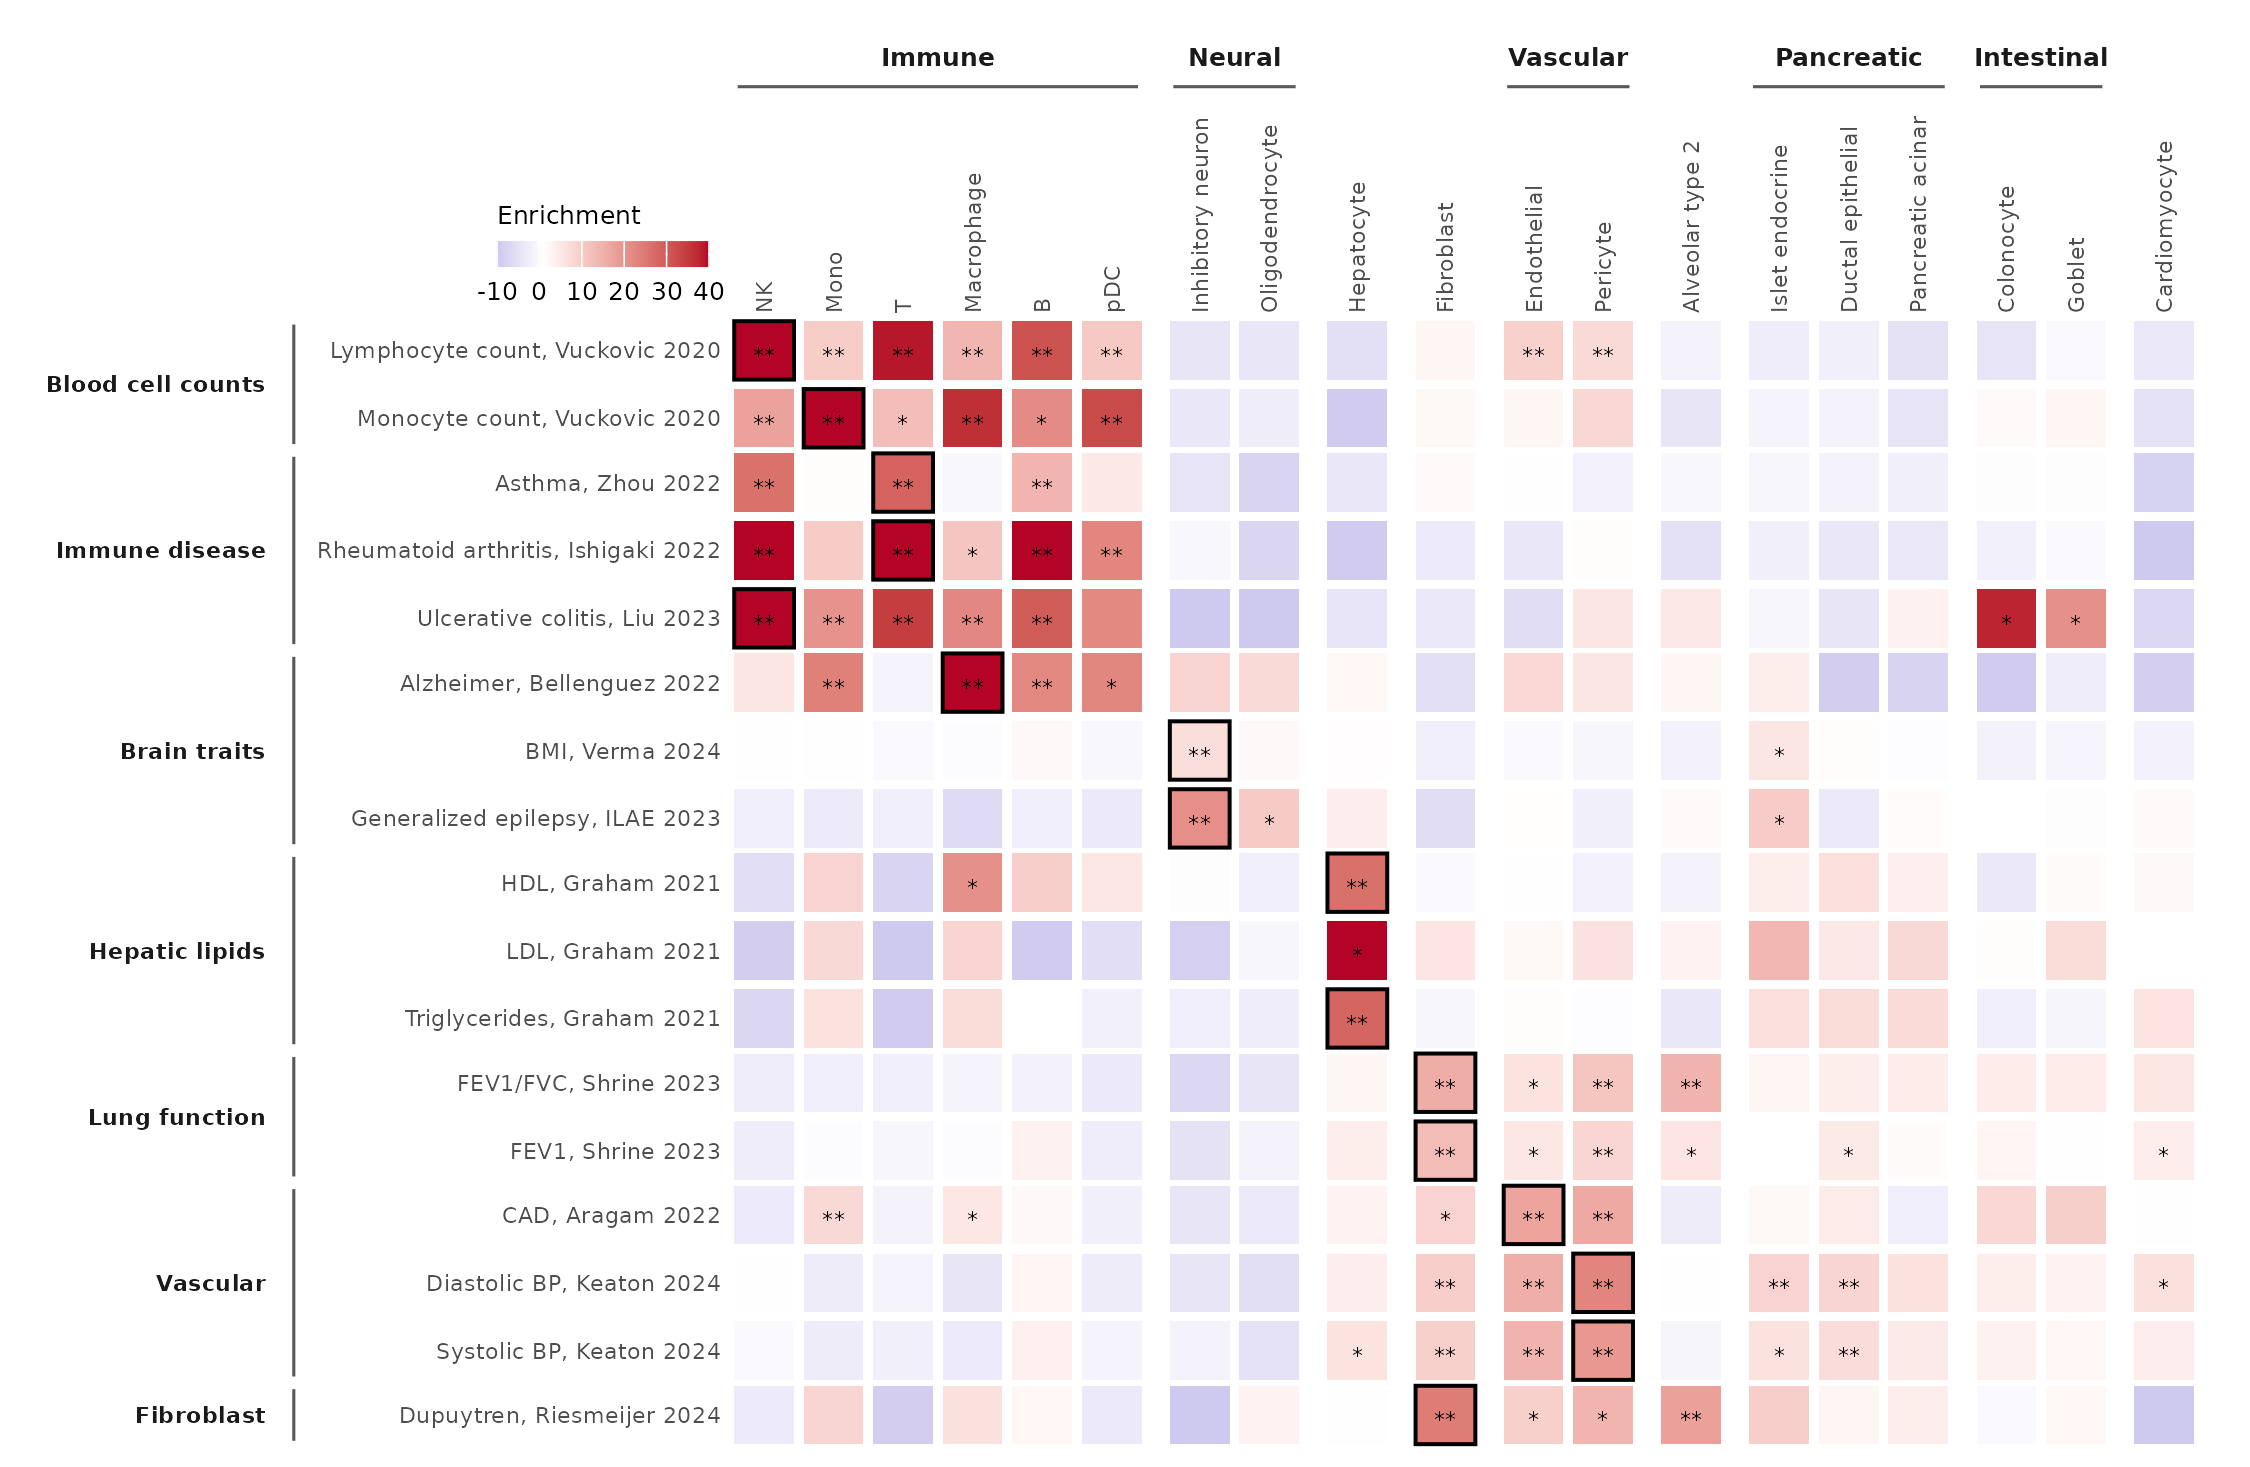
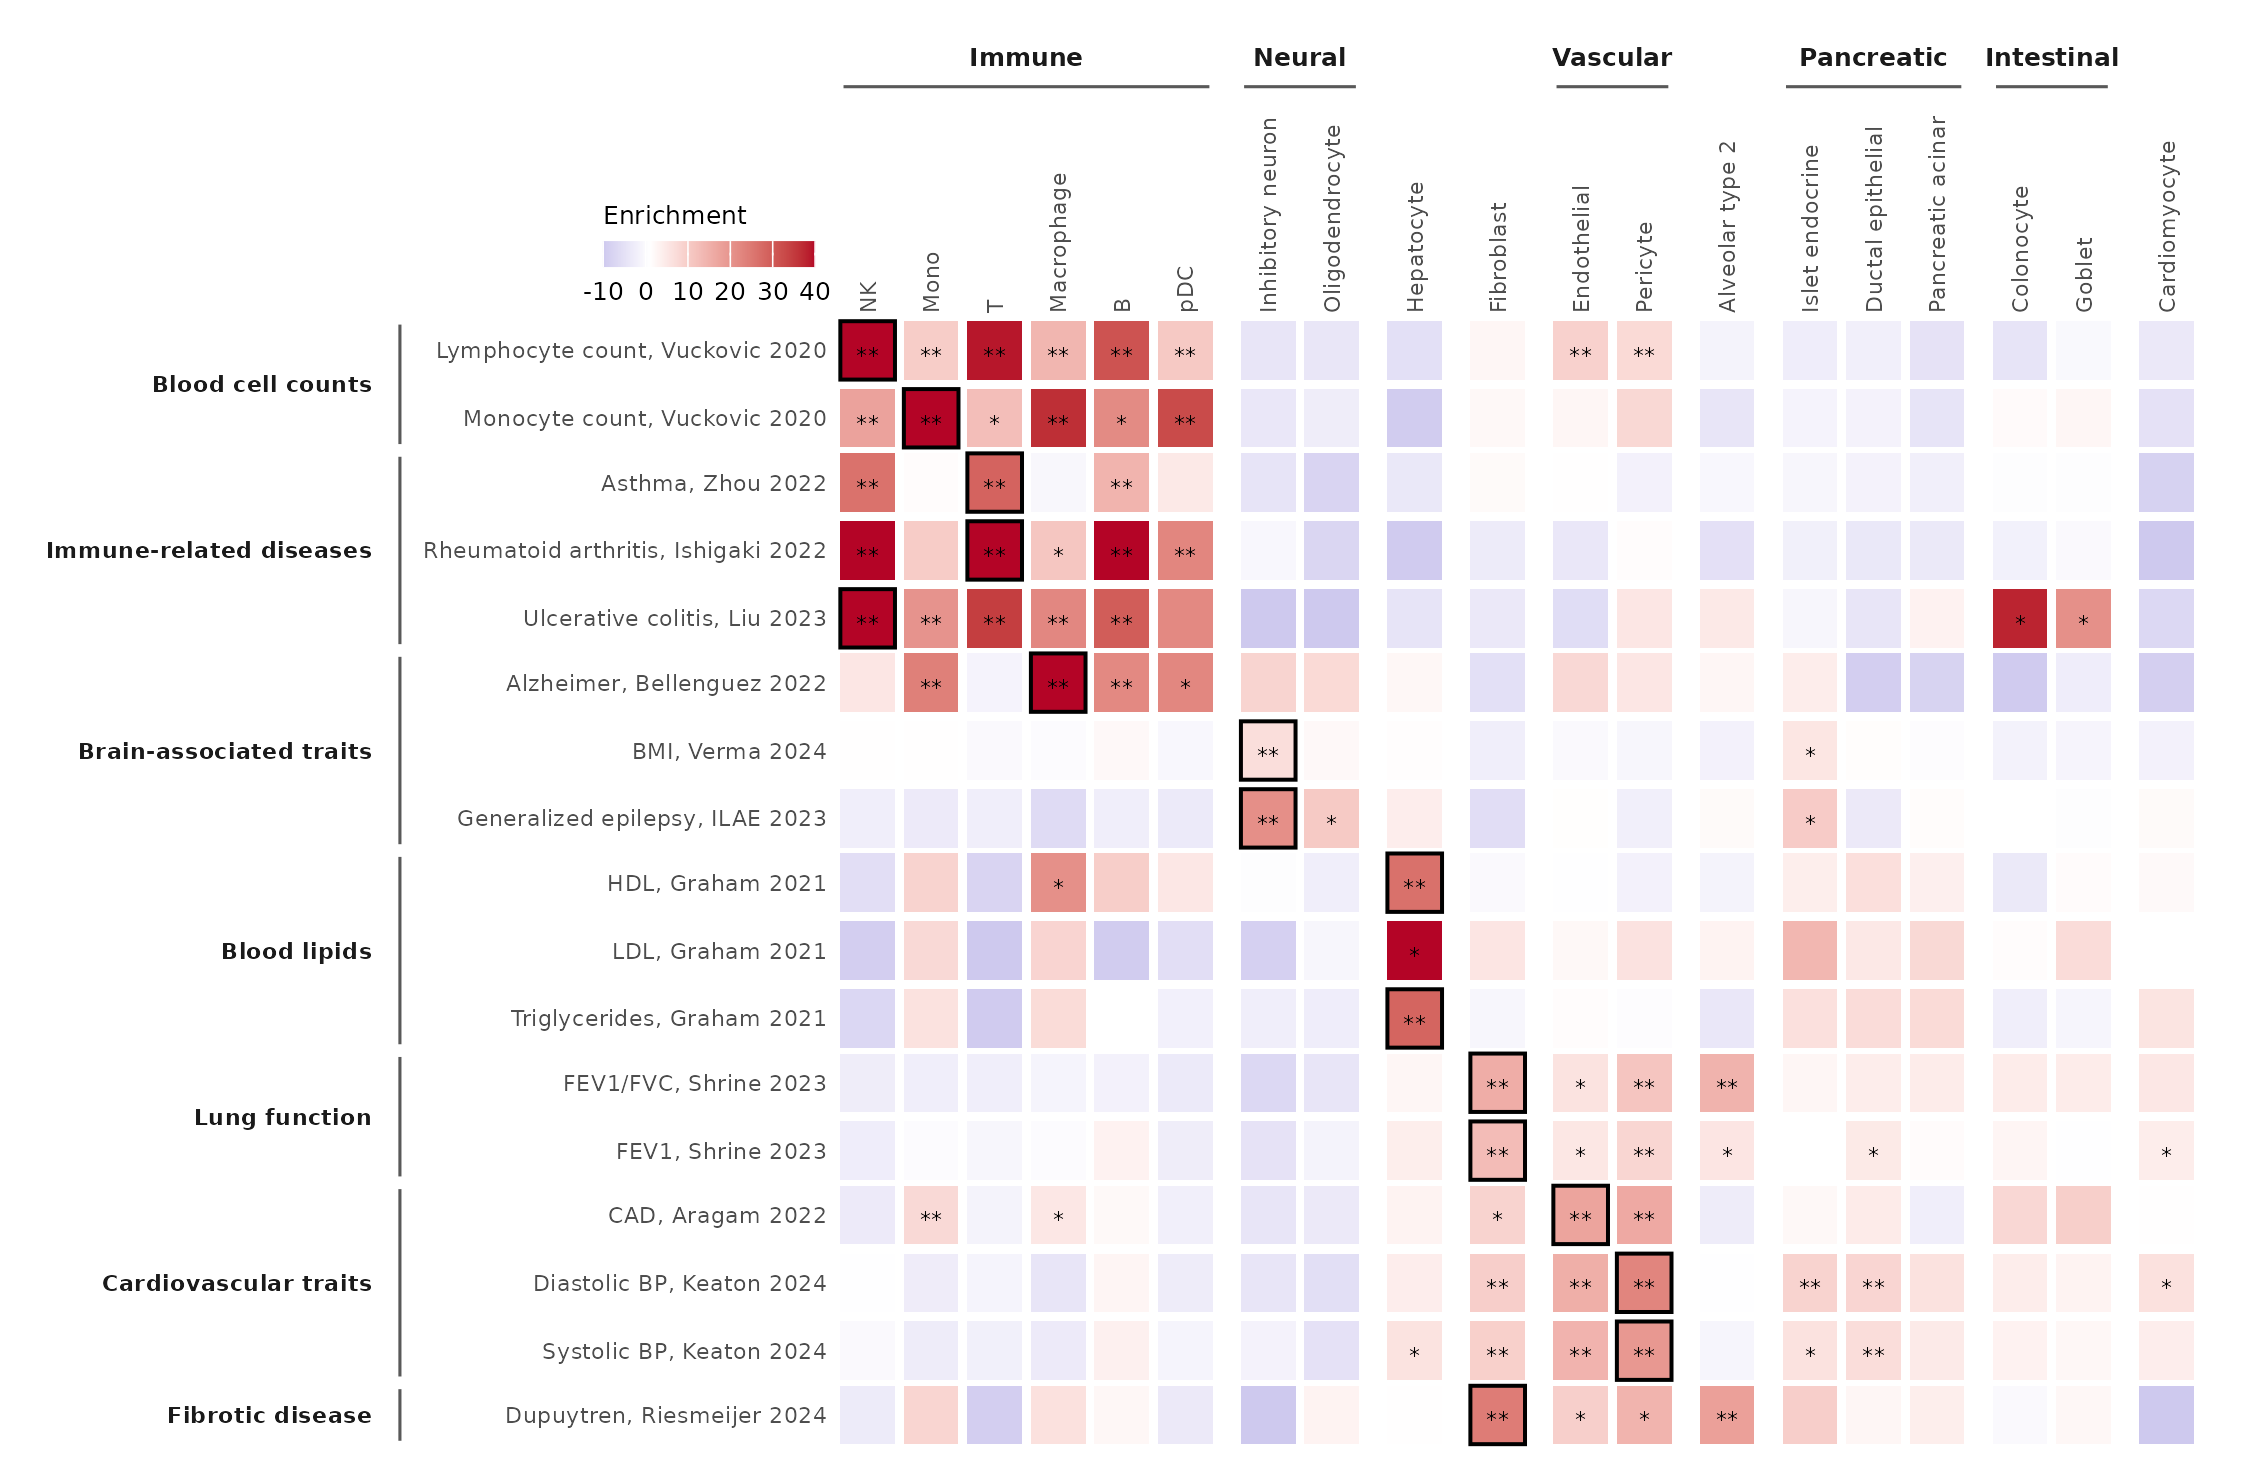
Name the trait categories of Figure 1F, S5 and S6 for their traits
Category names such as "Fibroblast", "Hepatic lipids" or "Vascular" named
the cells expected to carry the signal, which pre-states the result.
The categories now name the traits: blood cell counts, immune-related
diseases, brain-associated traits, blood lipids, liver enzymes, glycemic
traits, cancer, lung function, cardiovascular traits and fibrotic
disease. Atrial fibrillation joins coronary artery disease and blood
pressure among the cardiovascular traits.

contained_target_breaking: figure_1_panel_heritability.mixed_human_31x, figure_1_plot.mixed_human_31x, figure_1.mixed_human_31x, supplementary_figure_S5.mixed_human_31x, supplementary_figure_S6.mixed_human_31x

diff --git a/pipeline_manuscript_figures/README.md b/pipeline_manuscript_figures/README.md
@@ -116,19 +116,18 @@ column names 5.5 pt; other text 6 pt.
   with unclipped scores and the cell types enriched for it labelled.
 
 Figure 1F and Supplementary Figures S5 and S6 share one grid of studies (rows)
-and assigned cell types (columns). Studies are grouped in a fixed order of
-trait categories, which bundles the configured immune and brain categories,
-each named in bold beside a line along its rows, left of the study names. Cell
-types are grouped in compartments that the figure code defines for this
-aggregation, each compartment of several cell types named in bold above a line
-over its columns, above the cell-type names. Each study's anchor, its largest
-value at q < 0.05, is boxed. Compartments and their cell types follow the first
-anchor they hold, row by row, so the anchors step down from the top left; then
-come those with only other values at q < 0.05, and last the rest, in their
-default order. Stars mark P < 0.05 (\*)
-and q < 0.05 (\*\*). S5 shows chromVAR deviations and F tau*, each clipped
-symmetrically at the 99th percentile of its absolute values; S6 shows S-LDSC
-enrichment on the module's scale around 1.
+and assigned cell types (columns). Studies are grouped in a fixed order of trait
+categories, named for their traits rather than the cells expected to carry them,
+each in bold beside a line along its rows, left of the study names. Cell types
+are grouped in compartments that the figure code defines for this aggregation,
+each compartment of several cell types named in bold above a line over its
+columns, above the cell-type names. Each study's anchor, its largest value at q
+< 0.05, is boxed. Compartments and their cell types follow the first anchor they
+hold, row by row, so the anchors step down from the top left; then come those
+with only other values at q < 0.05, and last the rest, in their default order.
+Stars mark P < 0.05 (\*) and q < 0.05 (\*\*). S5 shows chromVAR deviations and F
+tau*, each clipped symmetrically at the 99th percentile of its absolute values;
+S6 shows S-LDSC enrichment on the module's scale around 1.
 
 ## Supplementary Figures S2-S4 and Table S6
 
